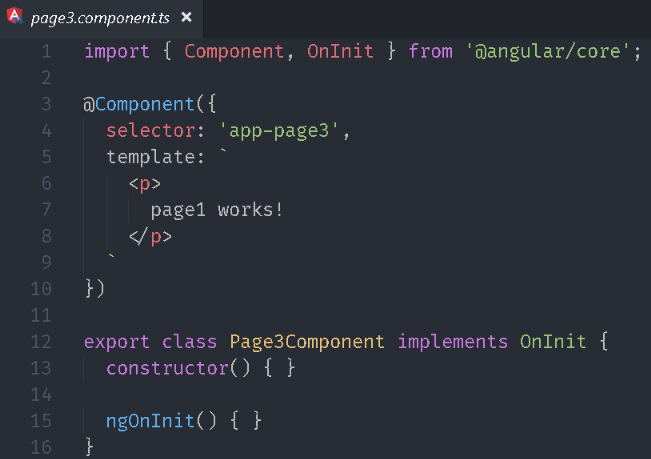
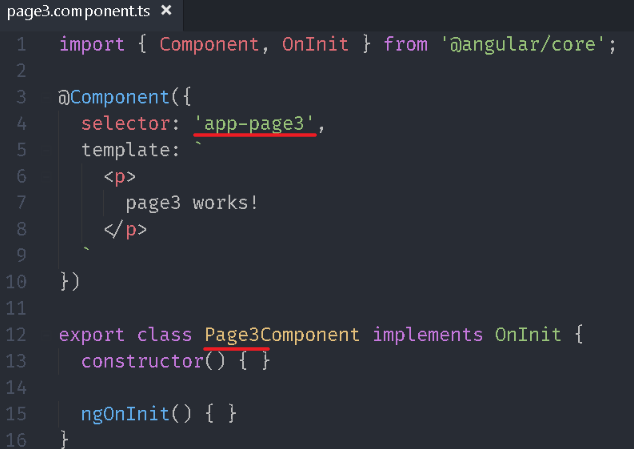
Site updated: 2017-08-29 17:41:01

diff --git a/angular/training/03_angular_component/index.html b/angular/training/03_angular_component/index.html
@@ -114,7 +114,9 @@
 <meta property="og:image" content="https://jonny-huang.github.io/images/angular/training/component/angular_component_11.png">
 <meta property="og:image" content="https://jonny-huang.github.io/images/angular/training/component/angular_component_12.png">
 <meta property="og:image" content="https://jonny-huang.github.io/images/angular/training/component/angular_component_13.png">
-<meta property="og:updated_time" content="2017-08-29T09:08:34.931Z">
+<meta property="og:image" content="https://jonny-huang.github.io/images/angular/training/component/angular_component_14.png">
+<meta property="og:image" content="https://jonny-huang.github.io/images/angular/training/component/angular_component_15.png">
+<meta property="og:updated_time" content="2017-08-29T09:40:08.801Z">
 <meta name="twitter:card" content="summary">
 <meta name="twitter:title" content="Angular 元件">
 <meta name="twitter:description" content="元件 (Component)在 Angular 基本運作流程 我們概略說明了 Angular 的元件(Component)主要是透過將類別(class)加上 @Component 裝飾器的宣告來組成。從官方文件可以看到 @Component 還包含其他屬性，例如：動畫。   如何新增元件要建立新的元件可以手動建立相關檔案並修改相關設定，但是另一個更好的方法就是透過 CLI 幫我們產生相關檔案，語法">
@@ -363,6 +365,7 @@
 <blockquote>
 <p><a href="https://marketplace.visualstudio.com/items?itemName=doggy8088.angular-extension-pack" target="_blank" rel="external">Angular Extension Pack</a> 擴充功能已經包含 <a href="https://marketplace.visualstudio.com/items?itemName=johnpapa.Angular2" target="_blank" rel="external">Angular v4 TypeScript Snippets</a>，所以可以直接使用代碼片段。  </p>
 </blockquote>
+<h3 id="套用-Component"><a href="#套用-Component" class="headerlink" title="套用 Component"></a>套用 Component</h3><p>開啟 <code>app.component.html</code>，並將 <code>Page1Component</code>、<code>Page2Component</code>、<code>Page3Component</code> 內 selector 所設定的 tag 加入至 <code>app.component.html</code>。<br><img src="/images/angular/training/component/angular_component_14.png" alt=""><br>執行 <code>ng serve</code>，並透過瀏覽器察看結果。<br><img src="/images/angular/training/component/angular_component_15.png" alt="">  </p>
 <p>比較上述幾個方法後，透過 CLI 指令應該是最方便的，也可讓命名規則符合 Angular 所建議的模式。  </p>
 
       
@@ -548,7 +551,7 @@
             
 
             
-              <div class="post-toc-content"><ol class="nav"><li class="nav-item nav-level-1"><a class="nav-link" href="#元件-Component"><span class="nav-number">1.</span> <span class="nav-text">元件 (Component)</span></a><ol class="nav-child"><li class="nav-item nav-level-2"><a class="nav-link" href="#如何新增元件"><span class="nav-number">1.1.</span> <span class="nav-text">如何新增元件</span></a><ol class="nav-child"><li class="nav-item nav-level-3"><a class="nav-link" href="#練習新增一個-page1-component"><span class="nav-number">1.1.1.</span> <span class="nav-text">練習新增一個 page1 component</span></a></li><li class="nav-item nav-level-3"><a class="nav-link" href="#練習新增一個最陽春的-page2-component"><span class="nav-number">1.1.2.</span> <span class="nav-text">練習新增一個最陽春的 page2 component</span></a></li><li class="nav-item nav-level-3"><a class="nav-link" href="#半-純手工打造-page3-component"><span class="nav-number">1.1.3.</span> <span class="nav-text">(半)純手工打造 page3 component</span></a></li></ol></li></ol></li></ol></div>
+              <div class="post-toc-content"><ol class="nav"><li class="nav-item nav-level-1"><a class="nav-link" href="#元件-Component"><span class="nav-number">1.</span> <span class="nav-text">元件 (Component)</span></a><ol class="nav-child"><li class="nav-item nav-level-2"><a class="nav-link" href="#如何新增元件"><span class="nav-number">1.1.</span> <span class="nav-text">如何新增元件</span></a><ol class="nav-child"><li class="nav-item nav-level-3"><a class="nav-link" href="#練習新增一個-page1-component"><span class="nav-number">1.1.1.</span> <span class="nav-text">練習新增一個 page1 component</span></a></li><li class="nav-item nav-level-3"><a class="nav-link" href="#練習新增一個最陽春的-page2-component"><span class="nav-number">1.1.2.</span> <span class="nav-text">練習新增一個最陽春的 page2 component</span></a></li><li class="nav-item nav-level-3"><a class="nav-link" href="#半-純手工打造-page3-component"><span class="nav-number">1.1.3.</span> <span class="nav-text">(半)純手工打造 page3 component</span></a></li><li class="nav-item nav-level-3"><a class="nav-link" href="#套用-Component"><span class="nav-number">1.1.4.</span> <span class="nav-text">套用 Component</span></a></li></ol></li></ol></li></ol></div>
             
 
           </div>

diff --git a/index.html b/index.html
@@ -350,6 +350,7 @@
 <blockquote>
 <p><a href="https://marketplace.visualstudio.com/items?itemName=doggy8088.angular-extension-pack" target="_blank" rel="external">Angular Extension Pack</a> 擴充功能已經包含 <a href="https://marketplace.visualstudio.com/items?itemName=johnpapa.Angular2" target="_blank" rel="external">Angular v4 TypeScript Snippets</a>，所以可以直接使用代碼片段。  </p>
 </blockquote>
+<h3 id="套用-Component"><a href="#套用-Component" class="headerlink" title="套用 Component"></a>套用 Component</h3><p>開啟 <code>app.component.html</code>，並將 <code>Page1Component</code>、<code>Page2Component</code>、<code>Page3Component</code> 內 selector 所設定的 tag 加入至 <code>app.component.html</code>。<br><img src="/images/angular/training/component/angular_component_14.png" alt=""><br>執行 <code>ng serve</code>，並透過瀏覽器察看結果。<br><img src="/images/angular/training/component/angular_component_15.png" alt="">  </p>
 <p>比較上述幾個方法後，透過 CLI 指令應該是最方便的，也可讓命名規則符合 Angular 所建議的模式。  </p>
 
           
